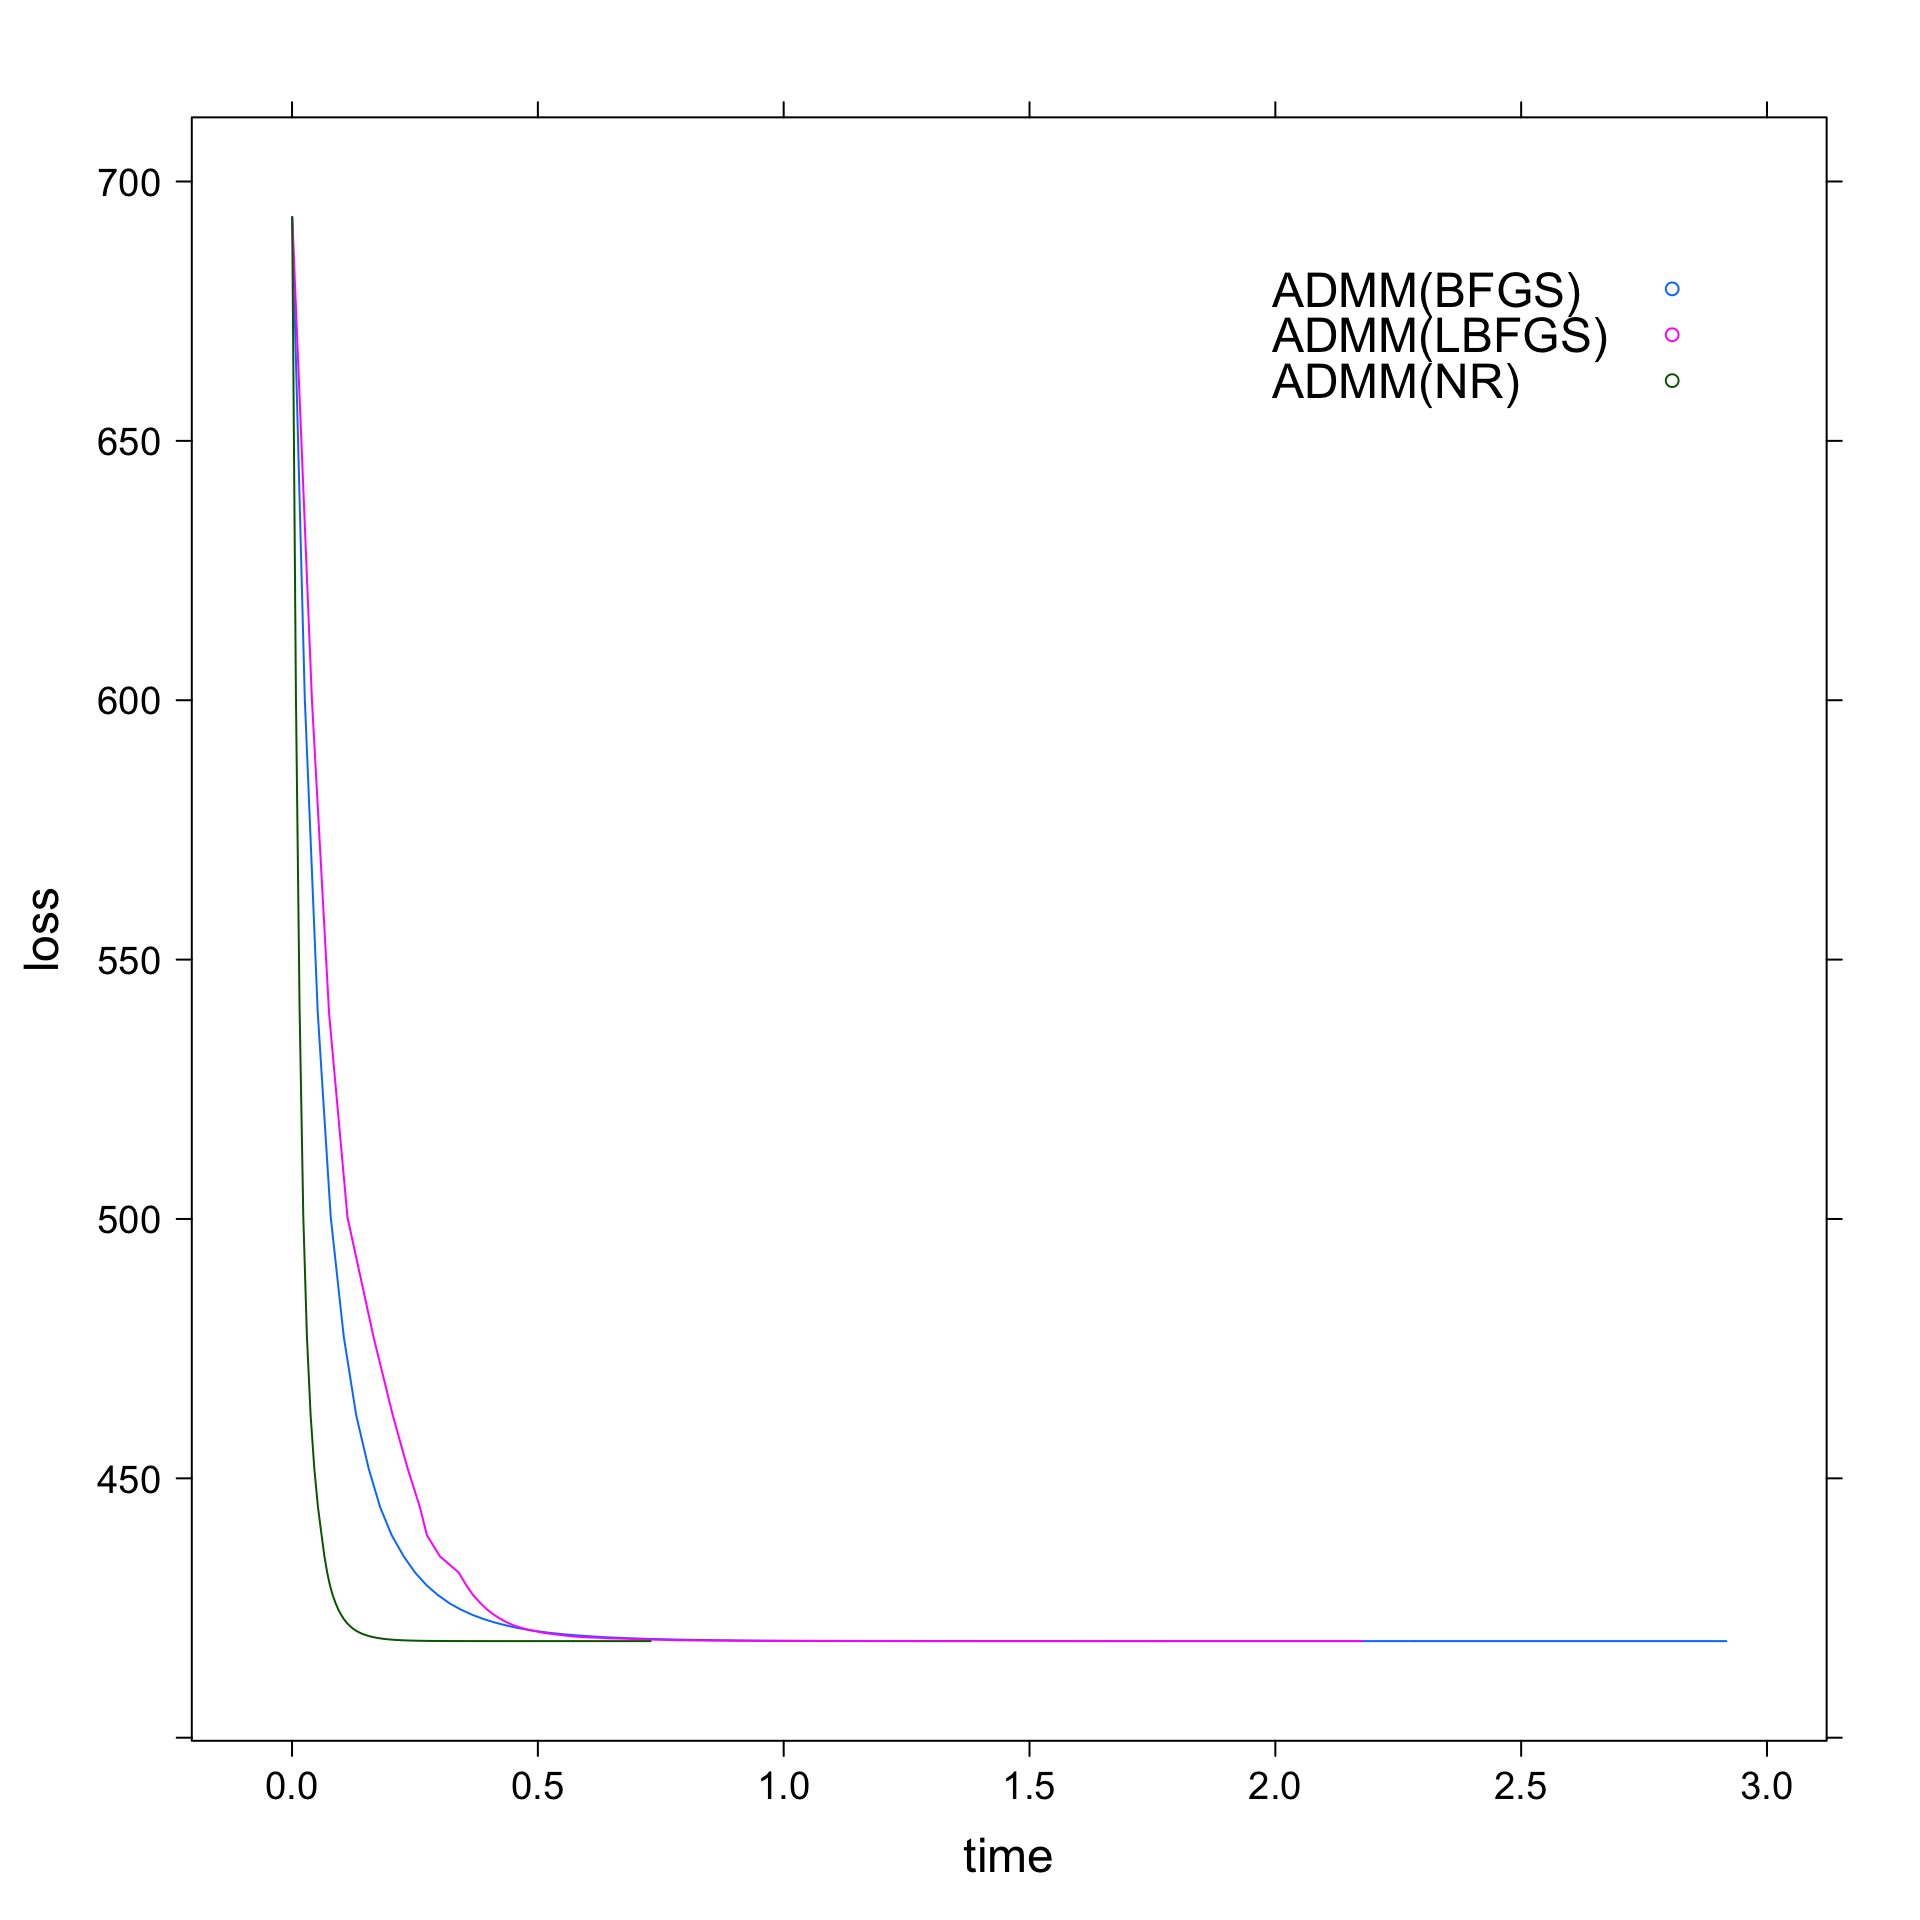
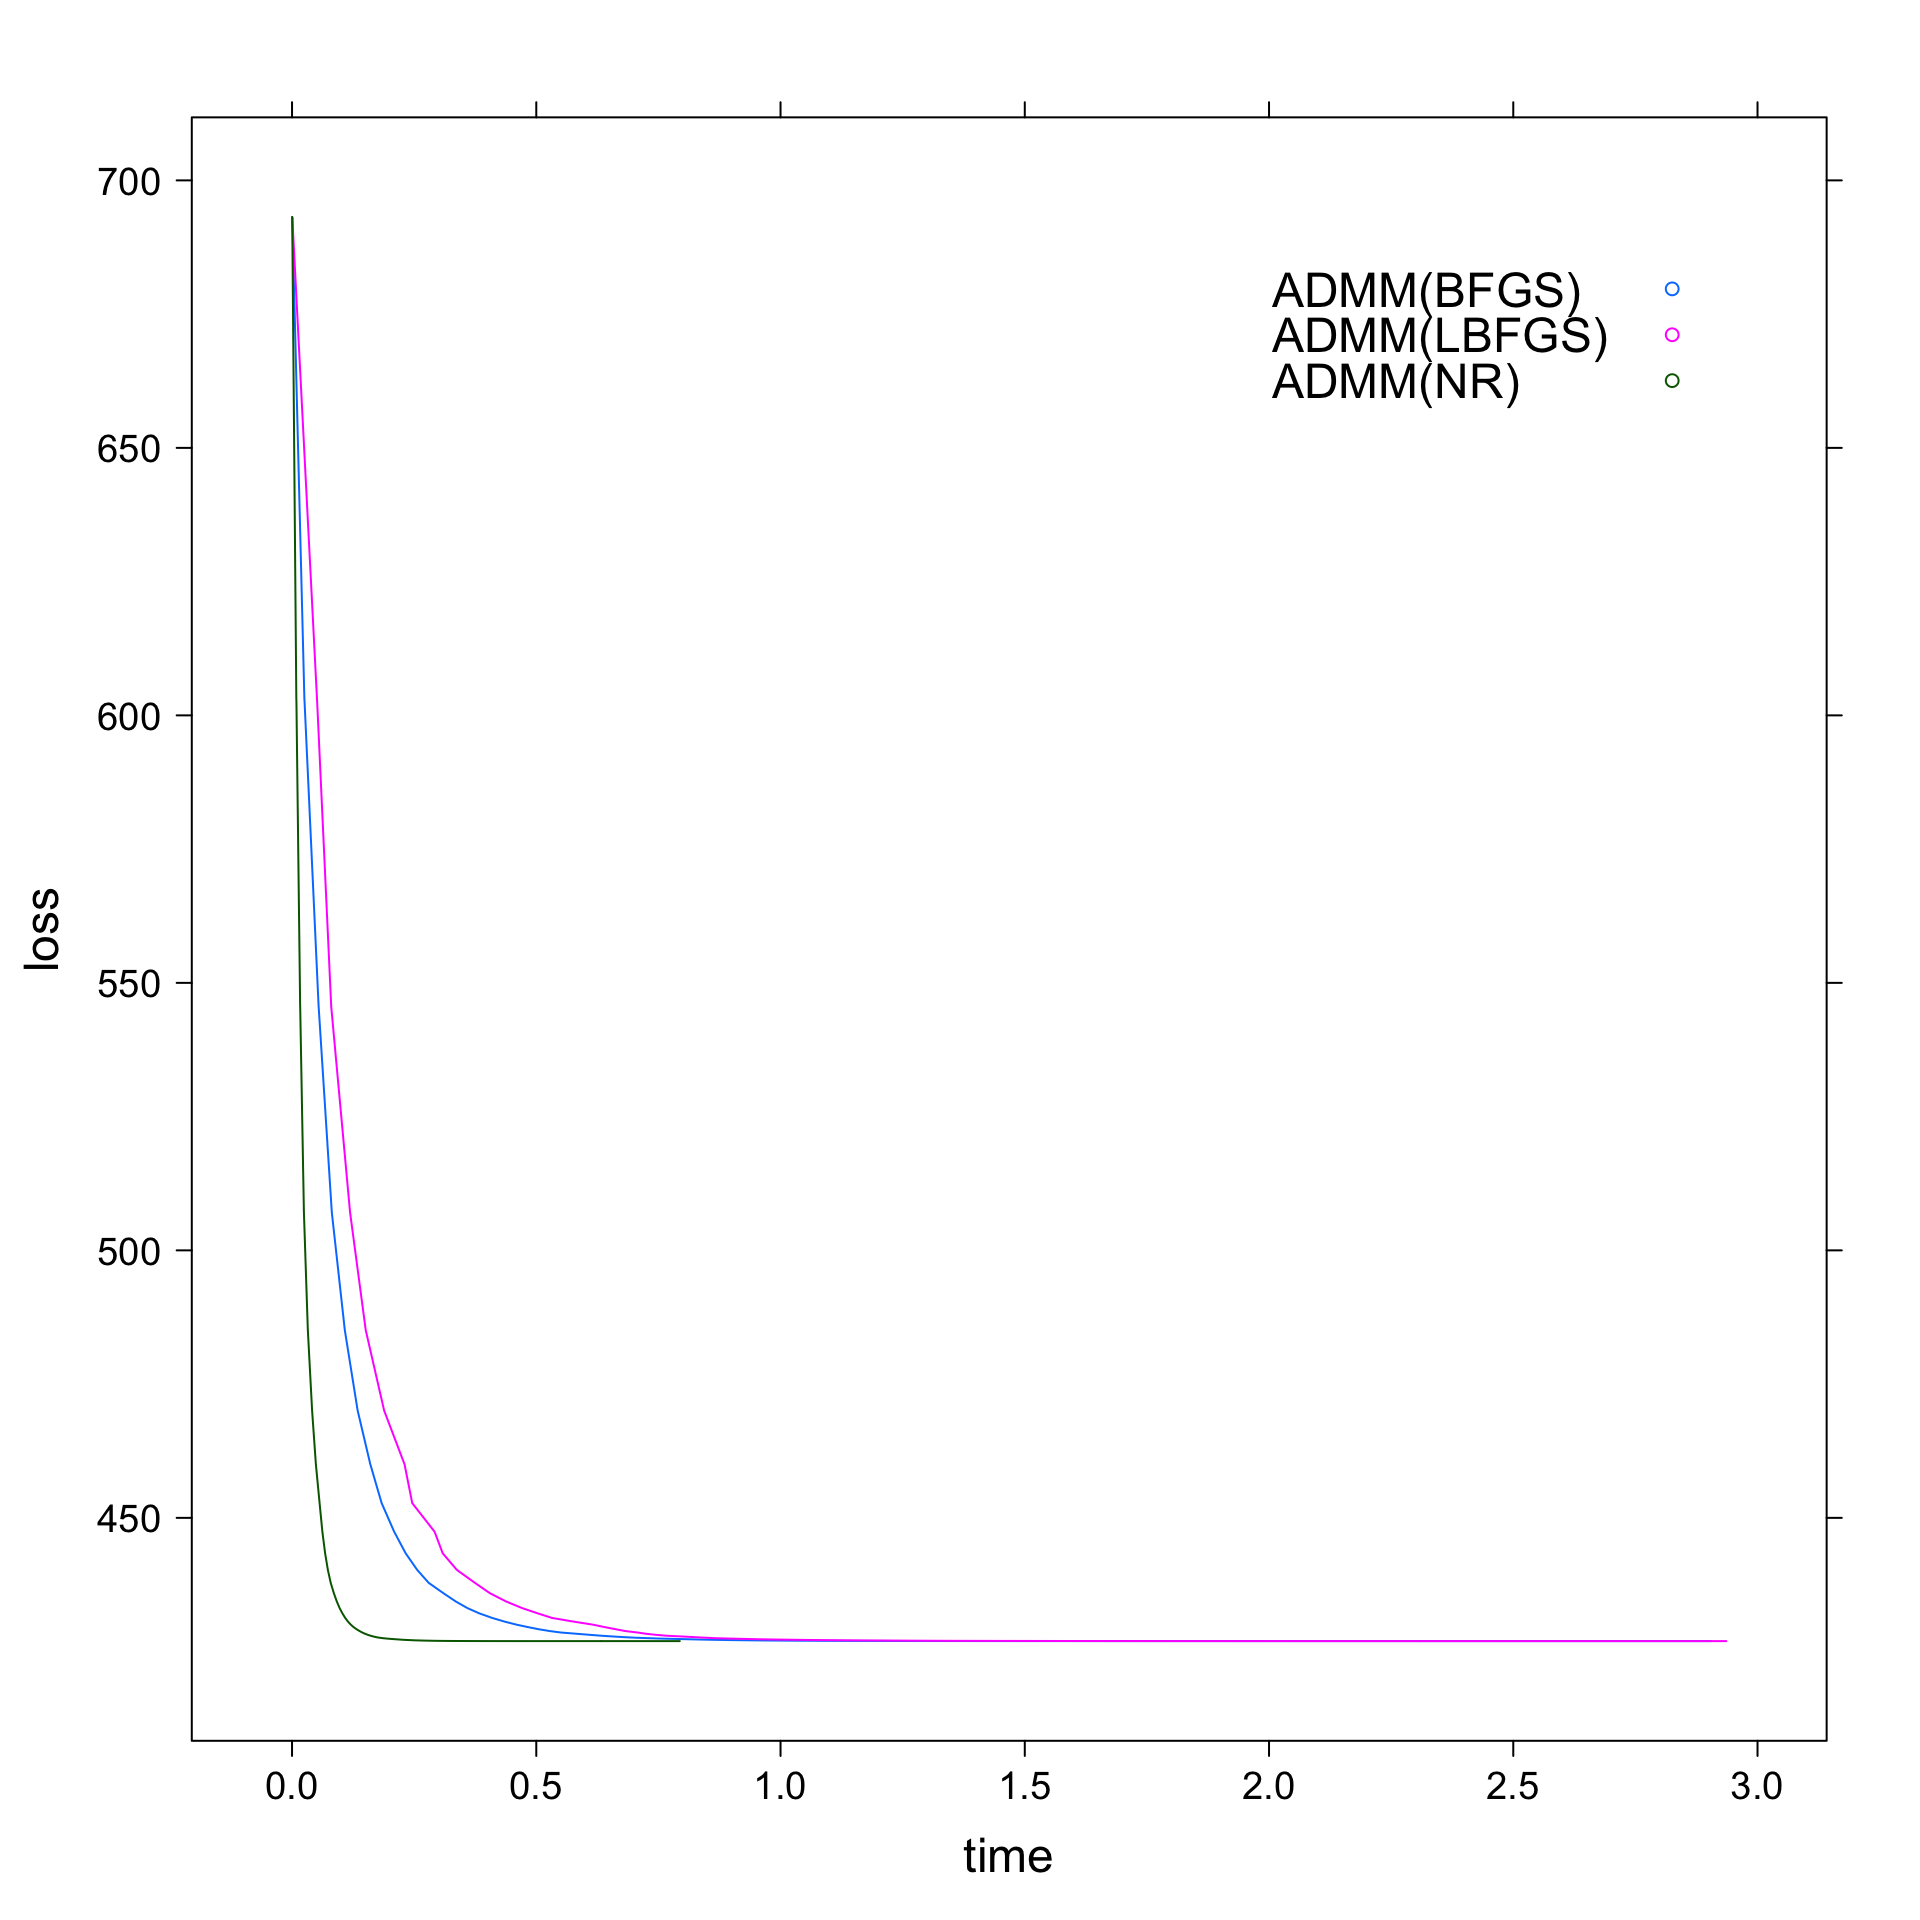
Built site for solvers: 1.0@15597e7

diff --git a/articles/compare-fista-admm-pn.html b/articles/compare-fista-admm-pn.html
@@ -109,11 +109,11 @@
 <div class="sourceCode" id="cb4"><pre class="downlit">
 <span class="co"># Comparing total execution time</span>
 <span class="fu"><a href="https://rdrr.io/r/base/print.html">print</a></span>(<span class="kw">fista_fit</span><span class="op">$</span><span class="kw">total_time</span>)
-<span class="co">#&gt; [1] 0.1094125</span>
+<span class="co">#&gt; [1] 0.1134136</span>
 <span class="fu"><a href="https://rdrr.io/r/base/print.html">print</a></span>(<span class="kw">admm_fit</span><span class="op">$</span><span class="kw">total_time</span>)
-<span class="co">#&gt; [1] 0.3959328</span>
+<span class="co">#&gt; [1] 0.4256452</span>
 <span class="fu"><a href="https://rdrr.io/r/base/print.html">print</a></span>(<span class="kw">pn_fit</span><span class="op">$</span><span class="kw">total_time</span>)
-<span class="co">#&gt; [1] 0.02167459</span>
+<span class="co">#&gt; [1] 0.02193741</span>
 </pre></div>
 <p>Now, these fits cannot be directly used to plot as they contain a lot of parameter so we’ll call a utility function that merges the relevant parameter and returns a dataframe.</p>
 <div class="sourceCode" id="cb5"><pre class="downlit">

diff --git a/articles/compare_opt_algo.html b/articles/compare_opt_algo.html
@@ -111,11 +111,11 @@
 <div class="sourceCode" id="cb4"><pre class="downlit">
 <span class="co"># Comparing total execution time</span>
 <span class="fu"><a href="https://rdrr.io/r/base/print.html">print</a></span>(<span class="kw">admm_nr</span><span class="op">$</span><span class="kw">total_time</span>)
-<span class="co">#&gt; [1] 0.7360682</span>
+<span class="co">#&gt; [1] 0.801085</span>
 <span class="fu"><a href="https://rdrr.io/r/base/print.html">print</a></span>(<span class="kw">admm_bfgs</span><span class="op">$</span><span class="kw">total_time</span>)
-<span class="co">#&gt; [1] 2.940774</span>
+<span class="co">#&gt; [1] 2.927135</span>
 <span class="fu"><a href="https://rdrr.io/r/base/print.html">print</a></span>(<span class="kw">admm_lbfgs</span><span class="op">$</span><span class="kw">total_time</span>)
-<span class="co">#&gt; [1] 2.193337</span>
+<span class="co">#&gt; [1] 2.953554</span>
 </pre></div>
 <p>Now, these fits cannot be directly used to plot as they contain a lot of parameter so we’ll call a utility function that merges the relevant parameter and returns a dataframe.</p>
 <div class="sourceCode" id="cb5"><pre class="downlit">
